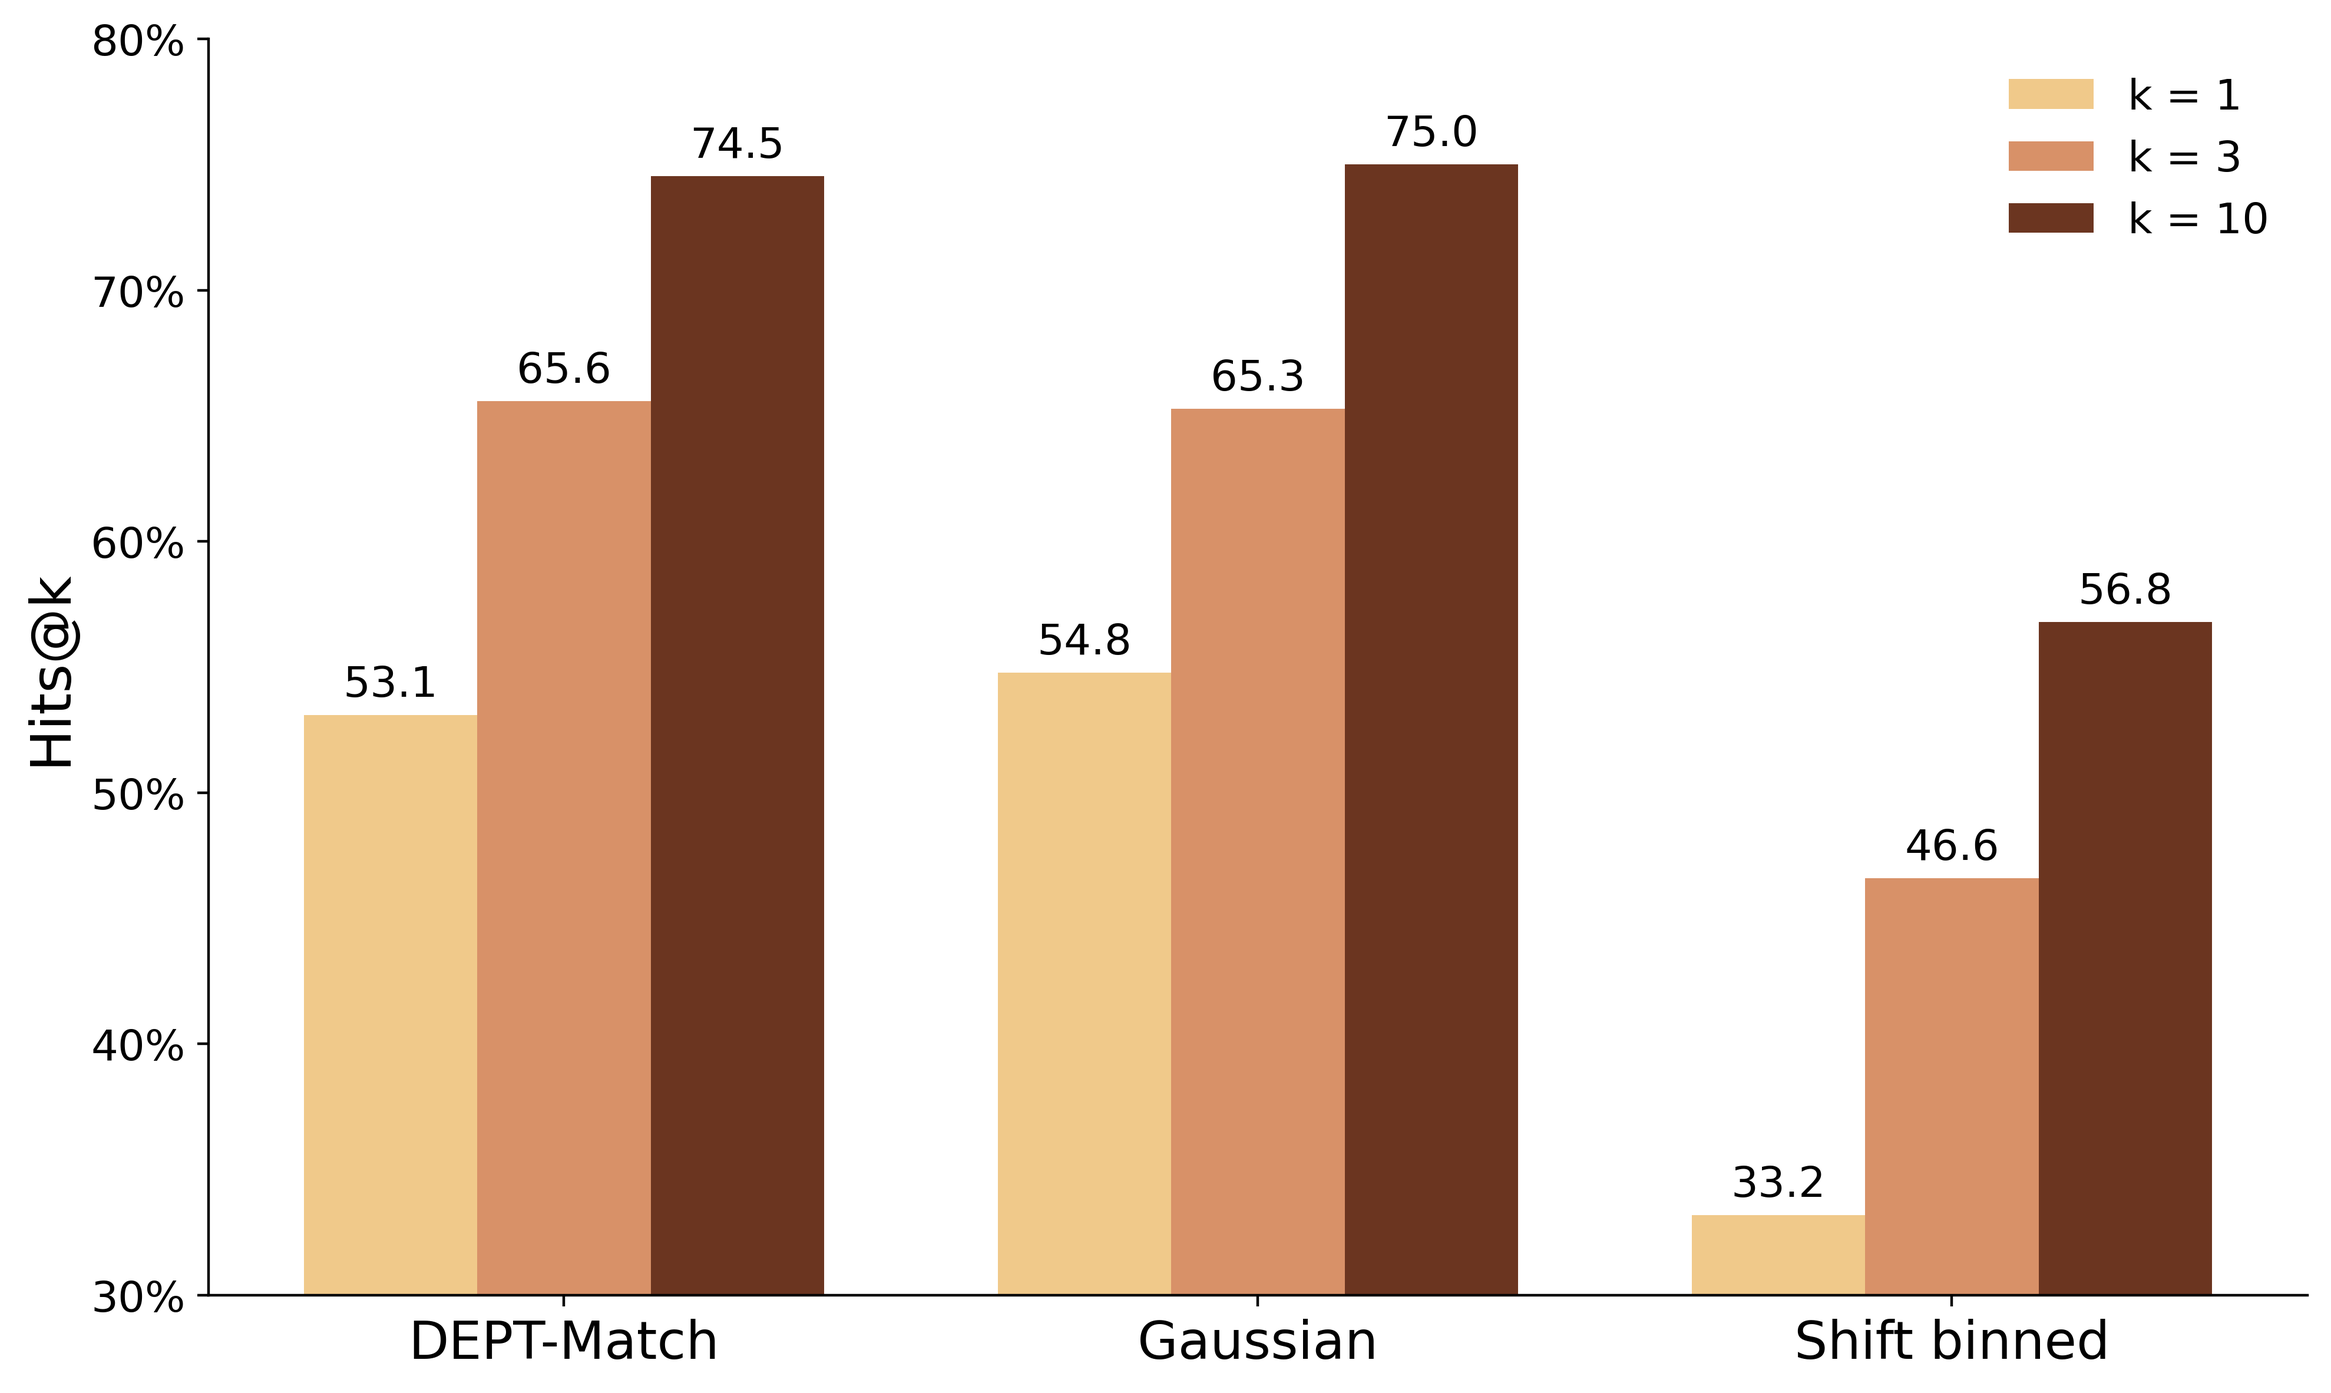
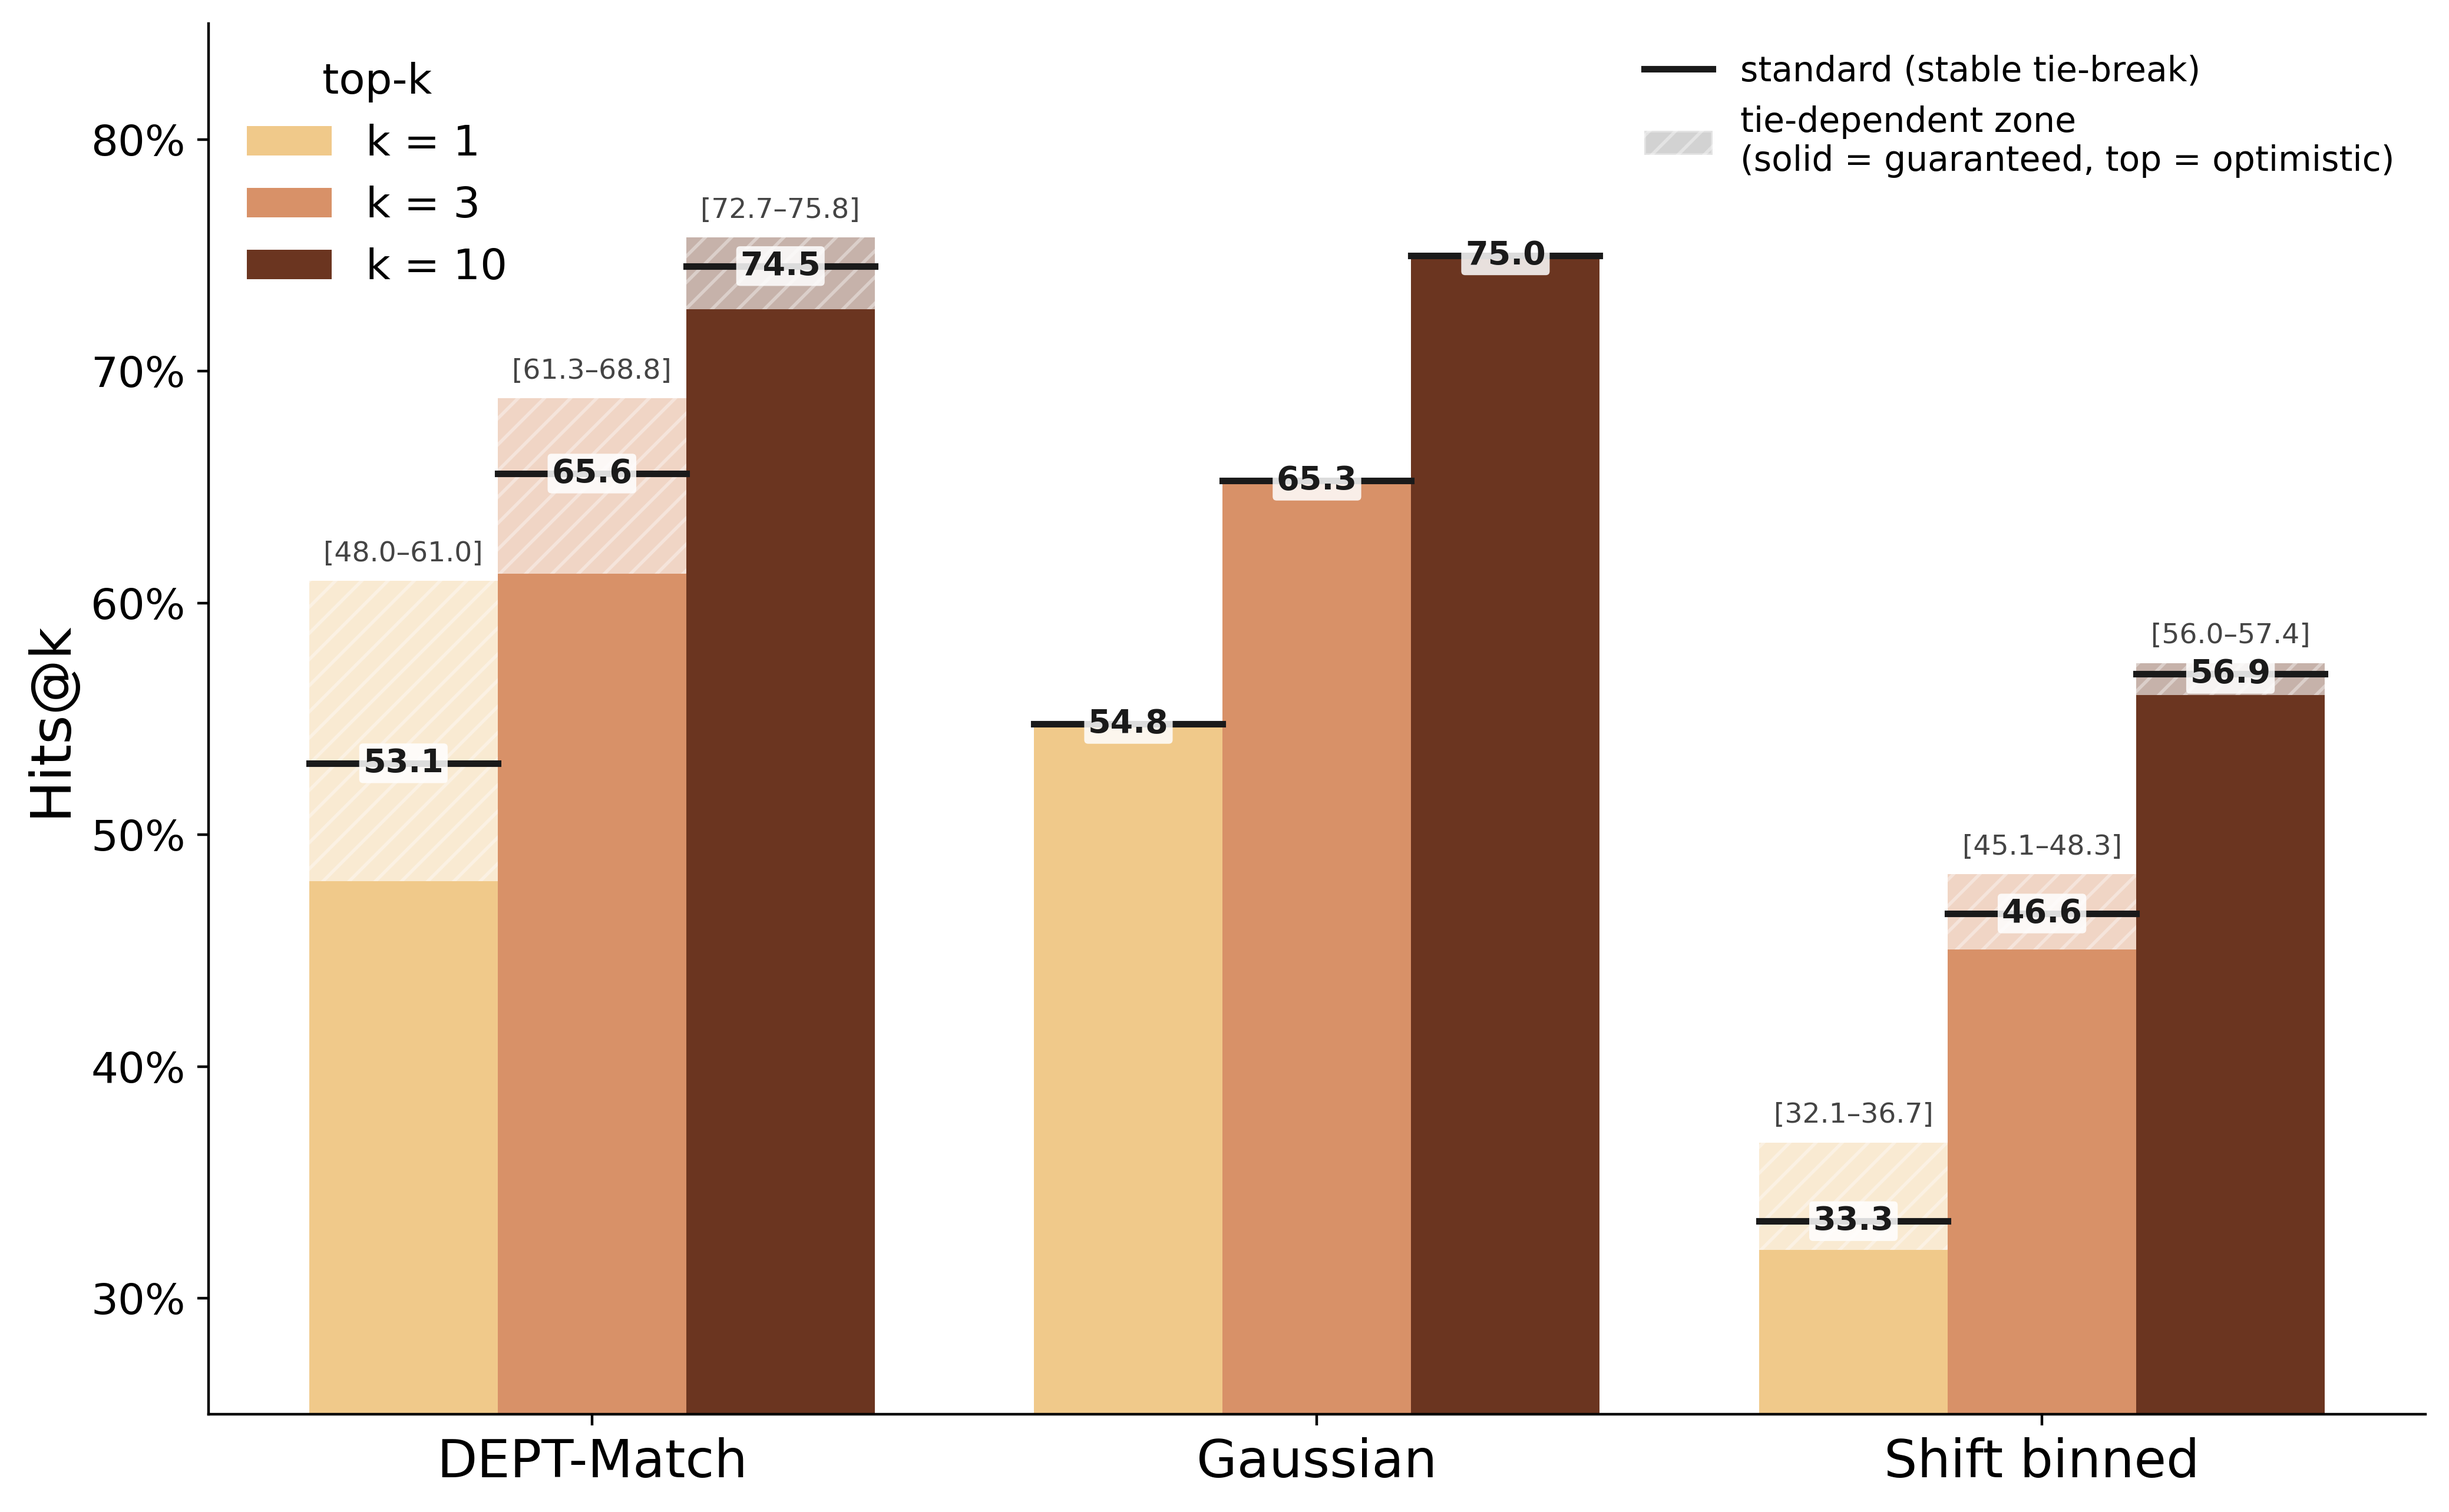
Add pessimistic and optimistic setting in DEPT

diff --git a/scripts/exp_tie_aware_hits.py b/scripts/exp_tie_aware_hits.py
@@ -1,0 +1,217 @@
+"""Tie-aware (optimistic) Hits@k vs the standard stable-tie-break Hits@k — Figure 2 variant.
+
+The ranked lists are built with a *stable* argsort, so within a block of candidates tied at the
+same score the one inserted first (arbitrary) wins. If the true compound is tied at the top but
+ordered behind a wrong candidate, the standard Hits@k misses it.
+
+This script recomputes the full candidate score vector for the three cosine methods and reports,
+alongside the standard metric, an **optimistic tie-aware** Hits@k: a query counts as a hit@k iff
+fewer than k candidates *strictly* outscore its best true-label candidate — i.e. some tie-break
+consistent with the scores would place the true compound within the top k. Two scores within
+``TIE_ATOL`` are treated as tied (same definition as the tie-distribution figure).
+
+Writes ``data/figures/figure2.png`` (bars = standard Hits@k = committed values, with a whisker
+bracketing the pessimistic..optimistic tie-break range) and prints the full table.
+"""
+import pickle
+from pathlib import Path
+
+import numpy as np
+import pandas as pd
+import matplotlib.pyplot as plt
+import matplotlib.ticker as mtick
+
+from dept_similarity.constants import FIGURE_DIR, PROCESSED_DATA_DIR, RESULTS_DIR
+# Reuse the exact data loading + scoring paths (module import does not run its main()).
+from plot_tie_distribution import build_inputs, vector_full_scores, hungarian_full_scores, TIE_ATOL
+
+K_VALUES = (1, 3, 10)
+# The three cosine methods shown in Figure 2, in the original display order.
+METHODS = [
+    ("hungarian_match", "DEPT-Match", "#6B3520"),
+    ("gauss_kernel", "Gaussian", "#6B3520"),
+    ("ppm_bins_typed", "Shift binned", "#6B3520"),
+]
+K_COLOR = {1: "#F0C98A", 3: "#D89168", 10: "#6B3520"}
+
+
+def load_labels():
+    """Query true InChIKey14 (keyed by the suffixed compound_id used everywhere else) and the
+    candidate InChIKey14 lookup, matching get_metrics_at_k (full InChIKey truncated to 14)."""
+    q = pd.read_parquet(Path(PROCESSED_DATA_DIR) / "experimental_validation_set.parquet")
+    if not (q["compound_id"].str.split("_").str[-1] == q["inchikey14"]).all():
+        q["compound_id"] = q["compound_id"] + "_" + q["inchikey14"]
+    q_true_key = q.set_index("compound_id")["inchikey14"].to_dict()
+    n_total = q["compound_id"].nunique()
+
+    lib = pd.read_parquet(Path(PROCESSED_DATA_DIR) / "library_data.parquet", columns=["compound_id", "inchikey"])
+    cand_key = {c: (ik[:14] if isinstance(ik, str) else None)
+                for c, ik in zip(lib["compound_id"], lib["inchikey"])}
+    return q_true_key, cand_key, n_total
+
+
+def method_hits(per_query_scores, pairs, cand_key, q_true_key, n_total):
+    """Hit counts per k under three tie-breaking regimes.
+
+    standard   — stable descending sort keeps candidate insertion order for ties (as in the
+                 committed ranked lists).
+    optimistic — best case: the true compound is ordered first within its tie block. Hit@k iff
+                 fewer than k candidates *strictly* outscore the best true-label match (g < k).
+    pessimistic— worst case: every other candidate tied at the true score is ordered ahead of it,
+                 so the earliest true match sits at rank g + (non-true ties) + 1. Hit@k iff that
+                 rank <= k.
+    """
+    std = {k: 0 for k in K_VALUES}
+    opt = {k: 0 for k in K_VALUES}
+    pess = {k: 0 for k in K_VALUES}
+    for q, sc in per_query_scores.items():
+        cand = pairs[q]
+        tk = q_true_key.get(q)
+        if tk is None or len(cand) == 0:
+            continue
+        keys = np.array([cand_key.get(c) for c in cand], dtype=object)
+        sc = np.asarray(sc, dtype=float)
+
+        order = np.argsort(-sc, kind="stable")
+        for k in K_VALUES:
+            if tk in set(keys[order[:k]]):
+                std[k] += 1
+
+        is_true = keys == tk
+        if is_true.any():
+            best_true = sc[is_true].max()
+            g = int(np.sum(sc > best_true + TIE_ATOL))                       # strictly better
+            tied = np.abs(sc - best_true) <= TIE_ATOL                        # tied at true score
+            non_true_tied = int(np.sum(tied & ~is_true))
+            worst_rank = g + non_true_tied + 1                               # earliest true, worst case
+            for k in K_VALUES:
+                if g < k:
+                    opt[k] += 1
+                if worst_rank <= k:
+                    pess[k] += 1
+    to_pct = lambda d: {k: 100.0 * v / n_total for k, v in d.items()}
+    return to_pct(pess), to_pct(std), to_pct(opt)
+
+
+def validate_standard(std_pct, method_dir, n_total):
+    """Cross-check the recomputed standard Hits@k against the committed ranked lists."""
+    from dept_similarity.match import get_metrics_at_k
+    q = pd.read_parquet(Path(PROCESSED_DATA_DIR) / "experimental_validation_set.parquet")
+    if not (q["compound_id"].str.split("_").str[-1] == q["inchikey14"]).all():
+        q["compound_id"] = q["compound_id"] + "_" + q["inchikey14"]
+    ranked = pd.read_parquet(Path(RESULTS_DIR) / f"{method_dir}_cosine" / "ranked_top10.parquet")
+    m = get_metrics_at_k(ranked, query_spectra_df=q, k_values=K_VALUES,
+                         with_inchikey14=True, compute_tanimoto=False, n_total_queries=n_total)
+    committed = {int(k): float(a) for k, a in zip(m["k"], m["accuracy"])}
+    diffs = {k: round(std_pct[k] - committed[k], 2) for k in K_VALUES}
+    print(f"    committed {committed}  recompute-Δ {diffs}")
+
+
+RESULTS_CACHE = Path("../data/cache/tie_aware_results.pkl")
+
+
+def compute_results():
+    d = build_inputs()
+    pairs, qp, lp = d["pairs"], d["query_peaks"], d["lib_peaks"]
+    query_ids = list(pairs.keys())
+    q_true_key, cand_key, n_total = load_labels()
+    print(f"{len(query_ids)} queries, n_total={n_total}", flush=True)
+
+    OPT = Path(RESULTS_DIR) / "optimization"
+    gauss_sigma = float(pd.read_parquet(OPT / "gaussian" / "summary_hits_at_k.parquet")
+                        .sort_values("Hits@10 (%)").iloc[-1]["sigma"])
+    hung_tol = float(pd.read_parquet(OPT / "hungarian" / "summary_hits_at_k.parquet")
+                     .sort_values("Hits@10 cosine (%)").iloc[-1]["ppm_tolerance"])
+
+    scores = {}
+    scores["gauss_kernel"] = vector_full_scores(query_ids, qp, pairs, lp, "gauss_kernel", gauss_sigma)
+    print("gauss_kernel scored", flush=True)
+    scores["ppm_bins_typed"] = vector_full_scores(query_ids, qp, pairs, lp, "ppm_bins_typed", gauss_sigma)
+    print("ppm_bins_typed scored", flush=True)
+    scores["hungarian_match"] = hungarian_full_scores(query_ids, qp, pairs, lp, hung_tol)["cosine"]
+    print("hungarian_match scored", flush=True)
+
+    results = {}  # method_dir -> (pess_pct, std_pct, opt_pct)
+    print("\nHits@k (%):  method            k   pessim.  standard  optimistic   [range]")
+    for method_dir, disp, _ in METHODS:
+        pess, std, opt = method_hits(scores[method_dir], pairs, cand_key, q_true_key, n_total)
+        results[method_dir] = (pess, std, opt)
+        for k in K_VALUES:
+            print(f"             {disp:<14} {k:>4}  {pess[k]:7.1f}  {std[k]:8.1f}  {opt[k]:10.1f}   "
+                  f"[{pess[k]:.1f}, {opt[k]:.1f}]  (std{std[k]-pess[k]:+.1f}/{opt[k]-std[k]:+.1f})")
+        validate_standard(std, method_dir, n_total)
+    with open(RESULTS_CACHE, "wb") as fh:
+        pickle.dump(results, fh)
+    return results
+
+
+def main():
+    if RESULTS_CACHE.exists():
+        with open(RESULTS_CACHE, "rb") as fh:
+            results = pickle.load(fh)
+        print("loaded cached results (delete data/cache/tie_aware_results.pkl to recompute)")
+    else:
+        results = compute_results()
+
+    # Export the numbers so notebook 04 can render Figure 2 without the heavy recompute.
+    res_rows = [{"method": md, "display": disp, "k": k,
+                 "pessimistic": results[md][0][k], "standard": results[md][1][k],
+                 "optimistic": results[md][2][k]}
+                for md, disp, _ in METHODS for k in K_VALUES]
+    out_parquet = Path(RESULTS_DIR) / "tie_aware_hits.parquet"
+    pd.DataFrame(res_rows).to_parquet(out_parquet, index=False)
+    print(f"wrote {out_parquet}")
+
+    # ---- Figure 2: standard bars with a [pessimistic, optimistic] tie-breaking whisker ----
+    # Bar height = standard (stable tie-break, = committed Figure 2). The whisker brackets the
+    # range the score allows under any tie-break: lower cap = pessimistic, upper cap = optimistic.
+    # Gaussian has no ties, so its range collapses to the bar (no whisker) — that is the point.
+    labels = [disp for _, disp, _ in METHODS]
+    x = np.arange(len(labels))
+    width = 0.26
+    fig, ax = plt.subplots(figsize=(10.5, 6.5))
+    for i, k in enumerate(K_VALUES):
+        pess_vals = np.array([results[m][0][k] for m, _, _ in METHODS])
+        std_vals = np.array([results[m][1][k] for m, _, _ in METHODS])
+        opt_vals = np.array([results[m][2][k] for m, _, _ in METHODS])
+        xpos = x + i * width
+        # Solid = guaranteed hits under any tie-break (pessimistic bound).
+        ax.bar(xpos, pess_vals, width, color=K_COLOR[k], label=f"k = {k}", zorder=2)
+        # Hatched cap = tie-dependent zone up to the optimistic bound.
+        ax.bar(xpos, opt_vals - pess_vals, width, bottom=pess_vals, color=K_COLOR[k],
+               alpha=0.38, hatch="///", edgecolor="white", linewidth=0, zorder=2)
+        for xp, pv, sv, ov in zip(xpos, pess_vals, std_vals, opt_vals):
+            # Dark tick marks the standard (stable tie-break) value = committed Hits@k.
+            ax.plot([xp - width / 2, xp + width / 2], [sv, sv], color="#1a1a1a", lw=2.0, zorder=4)
+            ax.text(xp, sv, f"{sv:.1f}", ha="center", va="center", fontsize=10, fontweight="bold",
+                    color="#1a1a1a", zorder=5,
+                    bbox=dict(boxstyle="round,pad=0.12", fc="white", ec="none", alpha=0.85))
+            if ov - pv >= 0.3:  # ties create a range → annotate [pess–opt] above the cap
+                ax.text(xp, ov + 0.6, f"[{pv:.1f}–{ov:.1f}]", ha="center", va="bottom",
+                        fontsize=8.5, color="#444", zorder=4)
+
+    all_opt = [results[m][2][k] for m, _, _ in METHODS for k in K_VALUES]
+    all_pess = [results[m][0][k] for m, _, _ in METHODS for k in K_VALUES]
+    ax.set_ylim(np.floor((min(all_pess) - 4) / 5) * 5, np.ceil((max(all_opt) + 5) / 5) * 5)
+    ax.set_xticks(x + width)
+    ax.set_xticklabels(labels, fontsize=16)
+    ax.set_ylabel("Hits@k", fontsize=17)
+    ax.tick_params(axis="y", labelsize=13)
+    ax.yaxis.set_major_formatter(mtick.PercentFormatter(xmax=100))
+    ax.spines[["top", "right"]].set_visible(False)
+    leg_k = ax.legend(title="top-k", frameon=False, fontsize=13, title_fontsize=13, loc="upper left")
+    ax.add_artist(leg_k)
+    from matplotlib.lines import Line2D
+    from matplotlib.patches import Patch
+    ax.legend(handles=[Line2D([0], [0], color="#1a1a1a", lw=2.0, label="standard (stable tie-break)"),
+                       Patch(facecolor="#8a8a8a", alpha=0.38, hatch="///", edgecolor="white",
+                             label="tie-dependent zone\n(solid = guaranteed, top = optimistic)")],
+              frameon=False, fontsize=10.5, loc="upper right")
+    fig.tight_layout()
+    out = Path(FIGURE_DIR) / "figure2.png"
+    fig.savefig(out, dpi=400, bbox_inches="tight")
+    print(f"\nsaved {out}")
+
+
+if __name__ == "__main__":
+    main()
